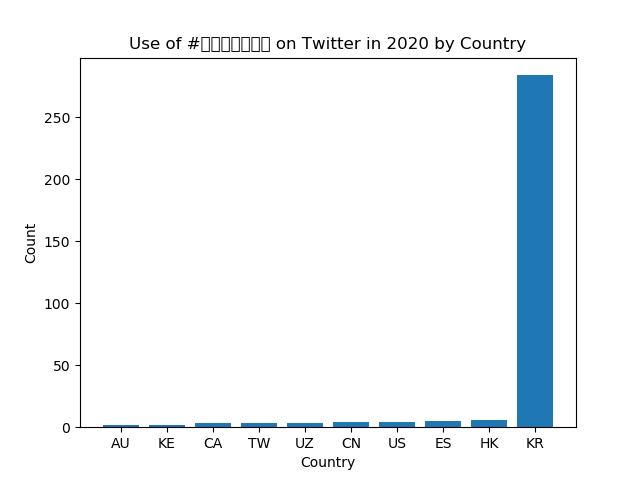
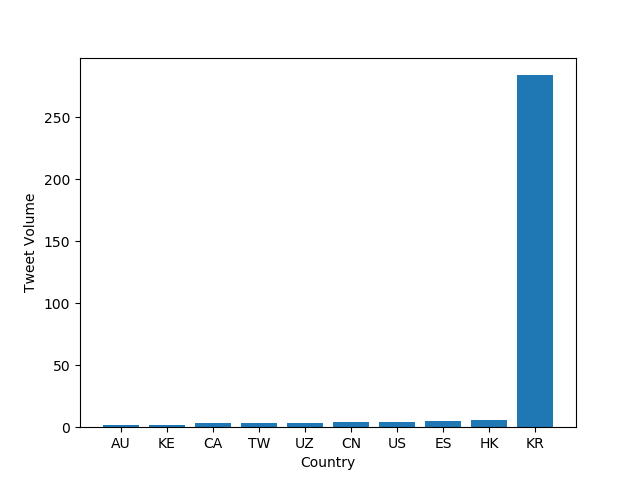
changes to graphs

Changed region(s): [[0.1875, 0.0625, 0.8125, 0.125], [0.0312, 0.4062, 0.0625, 0.5938]]

diff --git a/src/visualize.py b/src/visualize.py
@@ -43,15 +43,13 @@ plt.xticks(range(len(keys)), keys)
 
 # set the title and axis labels
 if args.input_path[-1] == 'g':
-    plt.title(u'Tweet Volume of ' + args.key + ' in 2020 by Language')
     plt.xlabel('Language')
 else:
-    plt.title(u'Tweet Volume of ' + args.key + ' in 2020 by Country')
     plt.xlabel('Country')
 if args.percent:
     plt.ylabel('Percent of Total')
 else:
-    plt.ylabel('Count')
+    plt.ylabel('Tweet Volume')
 
 # save the bar graph as a PNG file
 if args.input_path[-1] == 'g':

diff --git a/src/alternate_reduce.py b/src/alternate_reduce.py
@@ -51,7 +51,6 @@ ax.xaxis.set_major_locator(mdates.MonthLocator(interval=3))
 ax.xaxis.set_major_formatter(mdates.DateFormatter('%y-%m-%d'))
 
 # Add title and axis labels
-ax.set_title('Tweet volume by day and hashtag')
 ax.set_xlabel('Date')
 ax.set_ylabel('Tweet Volume')
 ax.legend()
